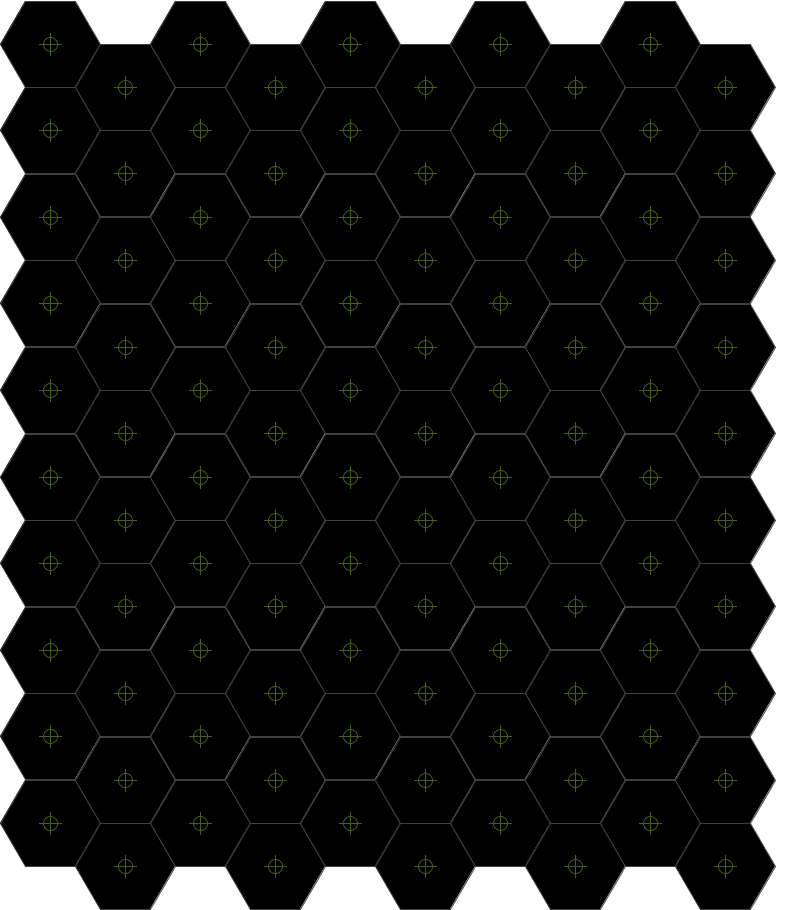
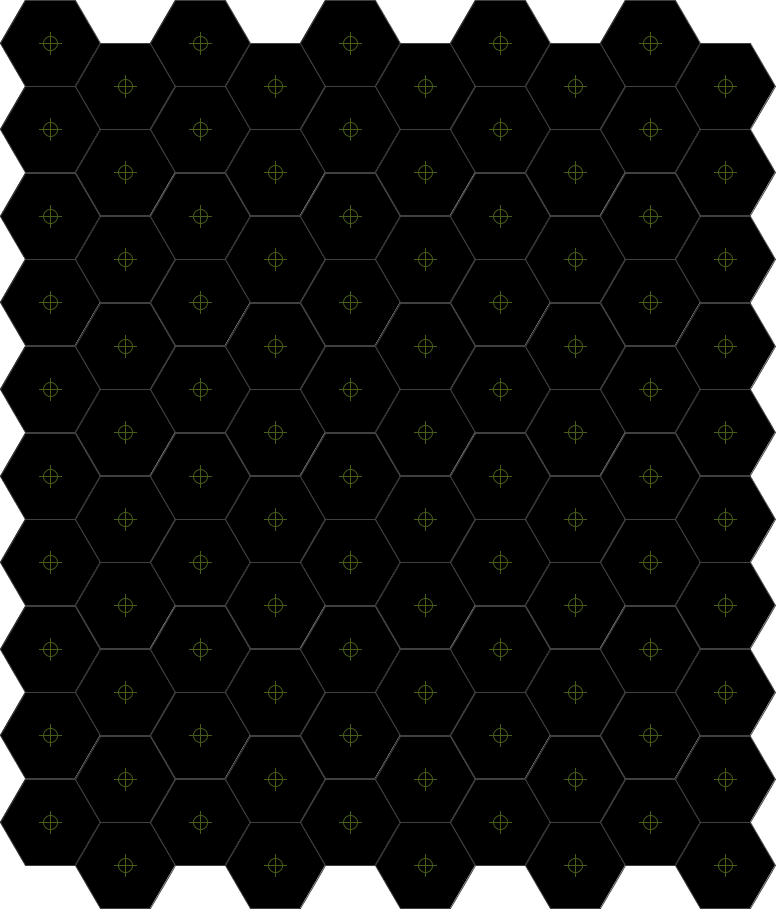
981770-69385862 Visualization should support hexagonal lattice

diff --git a/eslime/src/io/visual/map/HexPixelTranslator.java b/eslime/src/io/visual/map/HexPixelTranslator.java
@@ -29,6 +29,9 @@ import java.awt.*;
  * Created by dbborens on 4/1/14.
  */
 public class HexPixelTranslator extends PixelTranslator {
+
+    private int yOffset;
+
     @Override
     public double getDiagonal() {
         return 2 * edge;
@@ -37,34 +40,6 @@ public class HexPixelTranslator extends PixelTranslator {
     @Override
     public boolean equals(Object obj) {
         return (obj instanceof HexPixelTranslator);
-    }
-
-    @Override
-    protected void calcLimits(int[] extrema) {
-        int xMin = extrema[0];
-        int xMax = extrema[1];
-        int yMin = extrema[2];
-        int yMax = extrema[3];
-
-        // Hexagonal lattice: height value depends on width.
-        int mx = xMax - xMin;
-        int my = (yMax - yMin) - (mx / 2);
-        latticeDims = new Coordinate(mx, my, 0);
-
-        // Calculate pixel bounds.
-        double heightFP = Math.sqrt(3.0) * ((double) (my) + 1.5) * edge;
-        double widthFP = 1.5 * ((double) (mx) + 1.5f) * edge;
-
-        int px = (int) Math.ceil(widthFP);
-        int py = (int) Math.ceil(heightFP);
-        imageDims = new Coordinate(px, py, 0);
-    }
-
-    @Override
-    protected void calcOrigin() {
-        int x = (int) Math.round(edge);
-        int y = (int) Math.round(edge * Math.sqrt(3.0f));
-        origin = new Coordinate(x, y, 0);
     }
 
     @Override
@@ -79,6 +54,56 @@ public class HexPixelTranslator extends PixelTranslator {
 
         Coordinate ret = new Coordinate(px, py, 0);
         return ret;
+    }
+
+    @Override
+    protected void calcLimits(MapState mapState) {
+        int xMin, xMax, yMin, yMax;
+
+        xMin = 2147483647;
+        xMax = -2147483648;
+
+        yMin = 2147483647;
+        yMax = -2147483648;
+
+        for (Coordinate c : mapState.getCoordinates()) {
+            Coordinate pixels = indexToOffset(c.x(), c.y());
+            int x = pixels.x();
+            int y = pixels.y();
+
+            if (x < xMin) {
+                xMin = x;
+            }
+
+            if (x > xMax) {
+                xMax = x;
+            }
+
+            if (y < yMin) {
+                yMin = y;
+            }
+
+            if (y > yMax) {
+                yMax = y;
+            }
+        }
+
+        int dy = (int) Math.ceil((yMax - yMin) + (Math.sqrt(3.0) * edge));
+        int dx = (int) Math.ceil(xMax - xMin + (2 * edge)) + 1;
+        imageDims = new Coordinate(dx, dy, 0);
+        calcYOffset(yMin);
+    }
+
+    private void calcYOffset(int y) {
+        int y0 = (int) (indexToOffset(0, 0).y() - (0.5 * Math.sqrt(3.0) * edge));
+        yOffset = y - y0;
+    }
+
+    @Override
+    protected void calcOrigin() {
+        int x = (int) Math.round(edge);
+        int y = (int) Math.round(edge * Math.sqrt(3.0f)) - yOffset;
+        origin = new Coordinate(x, y, 0);
     }
 
     private Coordinate indexToOffset(int x, int y) {
@@ -106,20 +131,4 @@ public class HexPixelTranslator extends PixelTranslator {
         return p;
     }
 
-//    @Override
-//    public Coordinate indexToCenterPixels(Coordinate c) {
-//        // First, get coordinate of lower left hand corner.
-//        Coordinate corner = indexToPixels(c);
-//
-//        // x distance to center = edge length.
-//        int dx = (int) Math.round(edge);
-//
-//        // y distance to center = sqrt(3)/2 * edge length.
-//        int dy = (int) Math.round((Math.sqrt(3.0) / 2.0) * edge);
-//
-//        int x = corner.x() + dx;
-//        int y = corner.y() + dy;
-//
-//        return new Coordinate(x + dx, y + dy, 0);
-//    }
 }

diff --git a/eslime/tests/io/visual/map/MapVisualizationTest.java b/eslime/tests/io/visual/map/MapVisualizationTest.java
@@ -21,10 +21,24 @@
 
 package io.visual.map;
 
+import geometry.Geometry;
+import geometry.boundaries.Arena;
+import geometry.boundaries.Boundary;
+import geometry.lattice.Lattice;
+import geometry.lattice.TriangularLattice;
+import geometry.shape.Hexagon;
+import geometry.shape.Shape;
+import io.visual.color.ColorManager;
+import io.visual.color.DefaultColorManager;
 import io.visual.glyph.Glyph;
 import io.visual.glyph.GlyphTest;
 import io.visual.glyph.MockGlyph;
+import io.visual.highlight.HighlightManager;
 import layers.LightweightSystemState;
+
+import javax.imageio.ImageIO;
+import java.awt.image.BufferedImage;
+import java.io.File;
 
 /**
  * Created by dbborens on 4/1/14.
@@ -41,8 +55,8 @@ public class MapVisualizationTest extends GlyphTest {
     }
 
     @Override
-    protected void populateStateAndFitness(LightweightSystemState systemState) {
-        int n = makeGeometry().getCanonicalSites().length;
+    protected void populateStateAndFitness(Geometry geom, LightweightSystemState systemState) {
+        int n = geom.getCanonicalSites().length;
         double[] fitness = new double[n];
         int[] state = new int[n];
 
@@ -52,5 +66,27 @@ public class MapVisualizationTest extends GlyphTest {
         }
         systemState.setFitnessVector(fitness);
         systemState.setStateVector(state);
+    }
+
+    // Regression test for issues with incorrect bounds for hexagonal
+    // geometries. (Really a graphical test for HexPixelTranslator.)
+    public void testHexagon() throws Exception {
+        Lattice lattice = new TriangularLattice();
+        Shape shape = new Hexagon(lattice, 10);
+        Boundary boundary = new Arena(shape, lattice);
+        Geometry geom = new Geometry(lattice, shape, boundary);
+        ColorManager colorManager = new DefaultColorManager();
+        MapState mapState = new MapState(colorManager, 25.0);
+        HighlightManager highlightManager = new HighlightManager();
+        mapState.setHighlightManager(highlightManager);
+        MapVisualization map = new MapVisualization(mapState);
+        map.init(geom);
+        systemState = makeSystemState(geom);
+        BufferedImage result = map.render(systemState);
+        File file = new File(outputPath + "HexagonalMap.png");
+        ImageIO.write(result, "png", file);
+
+        assertBinaryFilesEqual("glyphs/HexagonalMap.png", "HexagonalMap.png");
+
     }
 }

diff --git a/eslime/tests/io/visual/glyph/GlyphTest.java b/eslime/tests/io/visual/glyph/GlyphTest.java
@@ -55,7 +55,7 @@ public abstract class GlyphTest extends EslimeTestCase {
     Geometry geometry;
     private HighlightManager highlightManager;
     private MapVisualization map;
-    private SystemState systemState;
+    protected SystemState systemState;
 
     @Override
     protected void setUp() throws Exception {
@@ -80,14 +80,14 @@ public abstract class GlyphTest extends EslimeTestCase {
         map.init(geometry);
 
         // Create system state
-        systemState = makeSystemState();
+        systemState = makeSystemState(geometry);
 
     }
 
     protected abstract Glyph makeGlyph();
 
-    protected void populateStateAndFitness(LightweightSystemState systemState) {
-        int n = makeGeometry().getCanonicalSites().length;
+    protected void populateStateAndFitness(Geometry geom, LightweightSystemState systemState) {
+        int n = geom.getCanonicalSites().length;
         double[] fitness = new double[n];
         int[] state = new int[n];
 
@@ -100,15 +100,15 @@ public abstract class GlyphTest extends EslimeTestCase {
 
     }
 
-    private LightweightSystemState makeSystemState() {
+    protected LightweightSystemState makeSystemState(Geometry geom) {
         MockCoordinateDeindexer deindexer = new MockCoordinateDeindexer();
-        deindexer.setUnderlying(geometry.getCanonicalSites());
+        deindexer.setUnderlying(geom.getCanonicalSites());
 
 
         LightweightSystemState ret = new LightweightSystemState(deindexer);
-        populateStateAndFitness(ret);
+        populateStateAndFitness(geom, ret);
         Set<Coordinate> highlights = new HashSet<>();
-        for (Coordinate c : geometry.getCanonicalSites()) {
+        for (Coordinate c : geom.getCanonicalSites()) {
             highlights.add(c);
         }
         ret.setHighlights(0, highlights);
@@ -135,6 +135,7 @@ public abstract class GlyphTest extends EslimeTestCase {
 
         assertBinaryFilesEqual("glyphs/" + getFileName(), getFileName());
     }
+
 
     protected abstract String getFileName();
 }

diff --git a/eslime/src/io/visual/map/PixelTranslator.java b/eslime/src/io/visual/map/PixelTranslator.java
@@ -32,9 +32,6 @@ import java.awt.*;
  */
 public abstract class PixelTranslator {
 
-    // Dimensions of the the lattice, as measured from the lower-left-most cell
-    // to the upper-right-most cell (in units of cells)
-    protected Coordinate latticeDims;
 
     // Dimensions of the image (in units of pixels)
     protected Coordinate imageDims;
@@ -54,55 +51,11 @@ public abstract class PixelTranslator {
         edge = mapState.getEdge();
         Coordinate[] coordinates = mapState.getCoordinates();
         mapState.setCoordinates(coordinates);
-        int[] extrema = calcModelExtrema(mapState);
-        calcLimits(extrema);
+        calcLimits(mapState);
         calcOrigin();
     }
 
-    private int[] calcModelExtrema(MapState mapState) {
-        // Find limits of coordinate range
-        Coordinate[] sites = mapState.getCoordinates();
-
-        int xMin, xMax, yMin, yMax;
-
-        xMin = 2147483647;
-        xMax = -2147483648;
-
-        yMin = 2147483647;
-        yMax = -2147483648;
-
-        for (int i = 0; i < sites.length; i++) {
-            Coordinate coord = sites[i];
-
-            int x = coord.x();
-            int y = coord.y();
-
-            if (x < xMin) {
-                xMin = x;
-            }
-
-            if (x > xMax) {
-                xMax = x;
-            }
-
-            if (y < yMin) {
-                yMin = y;
-            }
-
-            if (y > yMax) {
-                yMax = y;
-            }
-        }
-
-        // We expect only positive or zero coordinates.
-        if ((xMin != 0) || (yMin != 0)) {
-            throw new IllegalStateException("Negative coordinate or no coordinates loaded.");
-        }
-
-        return new int[]{xMin, xMax, yMin, yMax};
-    }
-
-    protected abstract void calcLimits(int[] extrema);
+    protected abstract void calcLimits(MapState mapState);
 
     // Provide the coordinate of the lower-leftmost coordinate to be included in.
     // the field of view. This may not be a coordinate that exists in this

diff --git a/eslime/tests/io/visual/map/HexPixelTranslatorTest.java b/eslime/tests/io/visual/map/HexPixelTranslatorTest.java
@@ -60,7 +60,7 @@ public class HexPixelTranslatorTest extends EslimeTestCase {
 
     public void testGetImageDims() throws Exception {
         Coordinate actual = query.getImageDims();
-        Coordinate expected = new Coordinate(38, 26, 0);
+        Coordinate expected = new Coordinate(36, 27, 0);
         assertEquals(expected, actual);
     }
 
